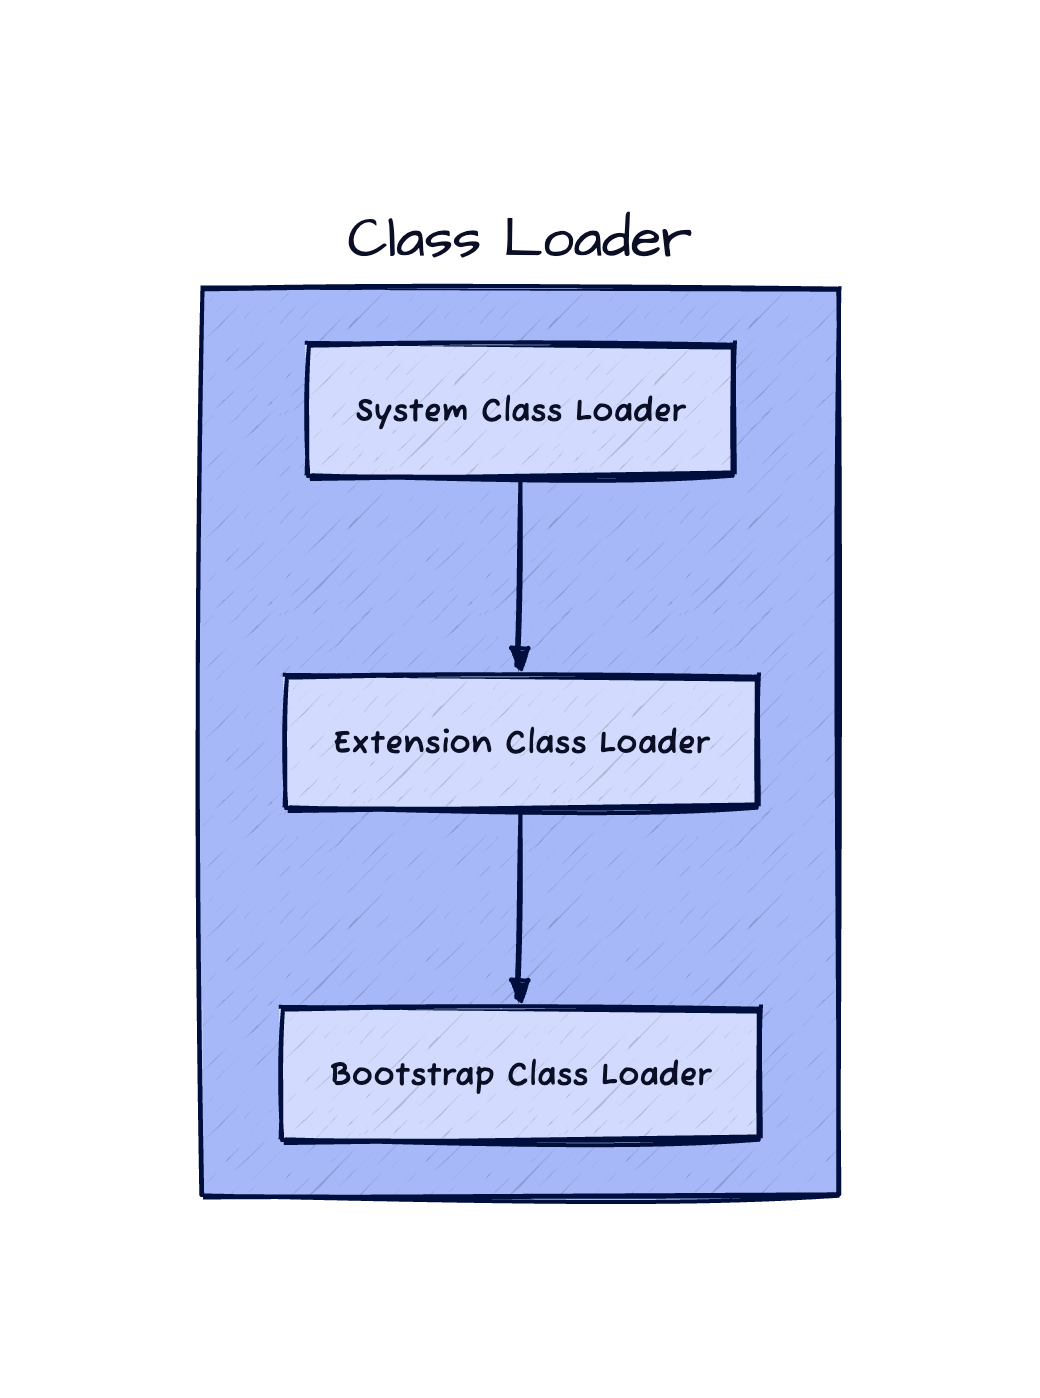
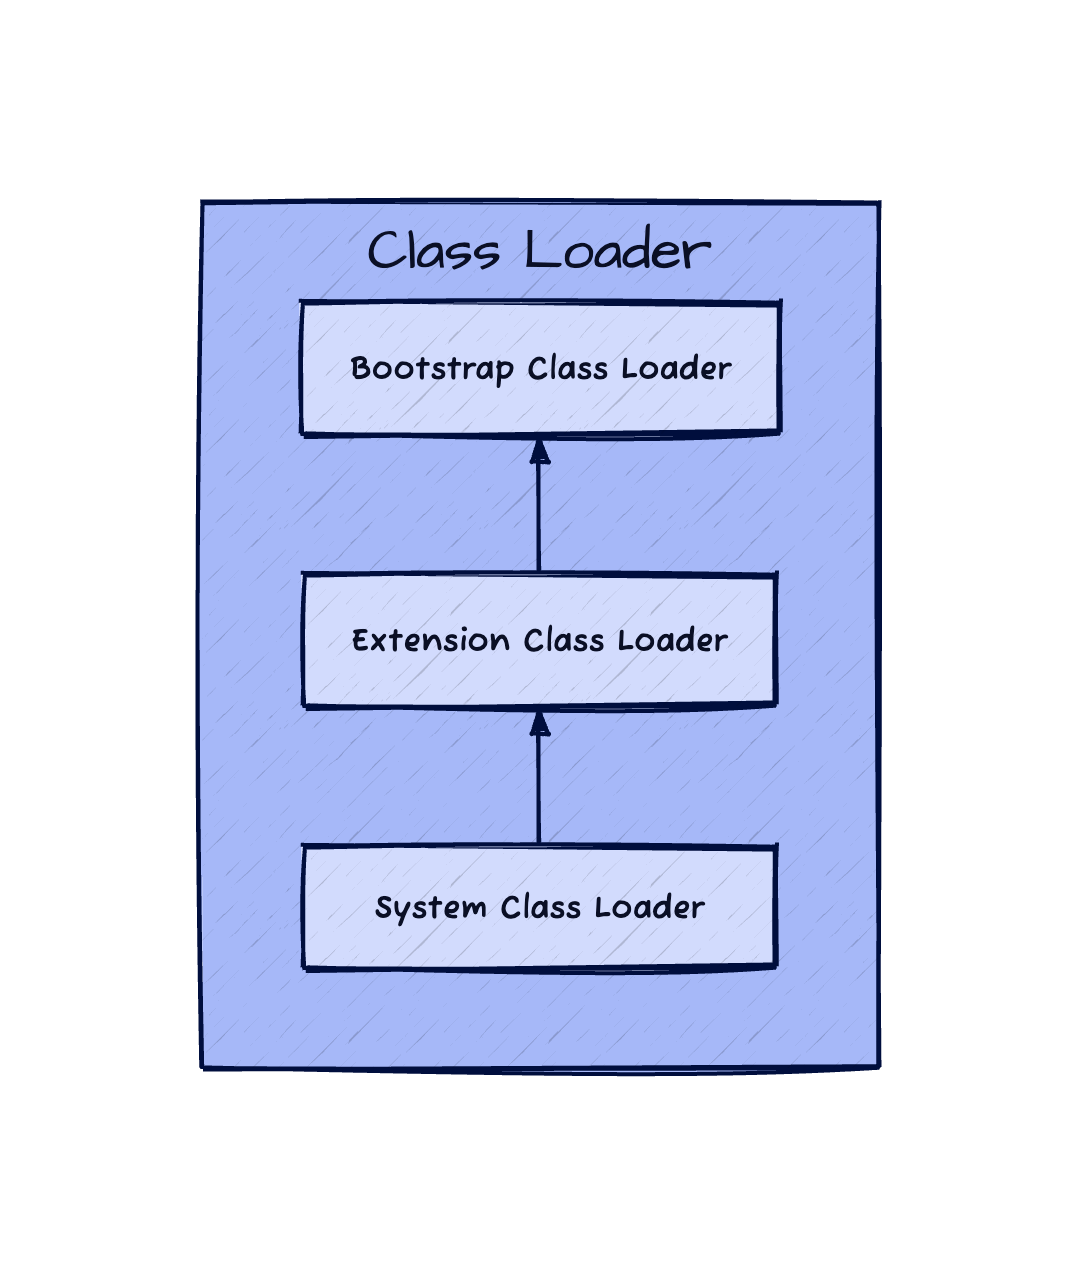
내용 추가

Changed region(s): [[0.1538, 0.1535, 0.8308, 0.8598]]

diff --git a/java/jvm.md b/java/jvm.md
@@ -25,13 +25,23 @@ JVM 상에서 Class 파일들을 로딩시키고, 로딩된 Class 파일들은 E
 
 기본적으로 클래스 로더는 관심사에 따라 3가지로 분류되며 각 클래스 로더는 부모-자식 관계를 갖는다.
 
-클래스 로더는 위임 모델을 따르며 클래스를 로드하기 위해 클래스 로더 인스턴스는 상위 클래스 로더에 위임한다. 즉 A라는 애플리케이션 클래스를 로드한다고 가정했을 때 `System Class Loader`는 `Extension Class Loader`에게 위임하고, `Extension Class Loader`는 다시 `Bootstrap Class Loader`로 위임한다. 상위 클래스에서 클래스 로드에 실패할 경우 마지막에 `System Class Loader`가 클래스 로드를 시도한다. 이 때도 찾지 못할 경우 `ClassNotFoundException`가 발생한다.
-
 ![jvm](/java/img/class%20loader.png)
 
 - Bootstrap Class Loader: JDK 내부 클래스, 일반적으로 $JAVA_HOME/jre/lib 디렉토리 에 있는 rt.jar 및 기타 핵심 라이브러리를 로드한다.
 - Extension Class Loader: 플랫폼에서 실행 중인 모든 애플리케이션에서 사용할 수 있도록 표준 핵심 Java 클래스의 확장 로드를 처리한다.
 - System Class Loader: 모든 애플리케이션 레벨 클래스를 JVM으로 로드한다. 클래스 경로 환경 변수, -classpath 또는 -cp 명령줄 옵션 에 있는 파일을 로드한다.
+
+### 클래스를 로드하는 방법
+
+클래스 로더는 위임 모델을 따르며 클래스를 로드하기 위해 클래스 로더 인스턴스는 상위 클래스 로더에 위임한다. 
+
+![jvm](/java/img/class%20loader%20process.png)
+
+즉 A라는 애플리케이션 클래스를 로드한다고 가정했을 때 플로우는 다음과 같다.
+1. `System Class Loader`는 `Extension Class Loader`에게 위임한다.
+2. `Extension Class Loader`는 다시 `Bootstrap Class Loader`로 위임한다.
+3. 상위 클래스에서 클래스 로드에 실패할 경우 마지막에 `System Class Loader`가 클래스 로드를 시도한다. 
+4. 3번까지 시도했을 때 찾지 못한 경우 `ClassNotFoundException`가 발생한다.
 
 ## 참고
 - JVM Performance Optimizing 성능 분석 사례
